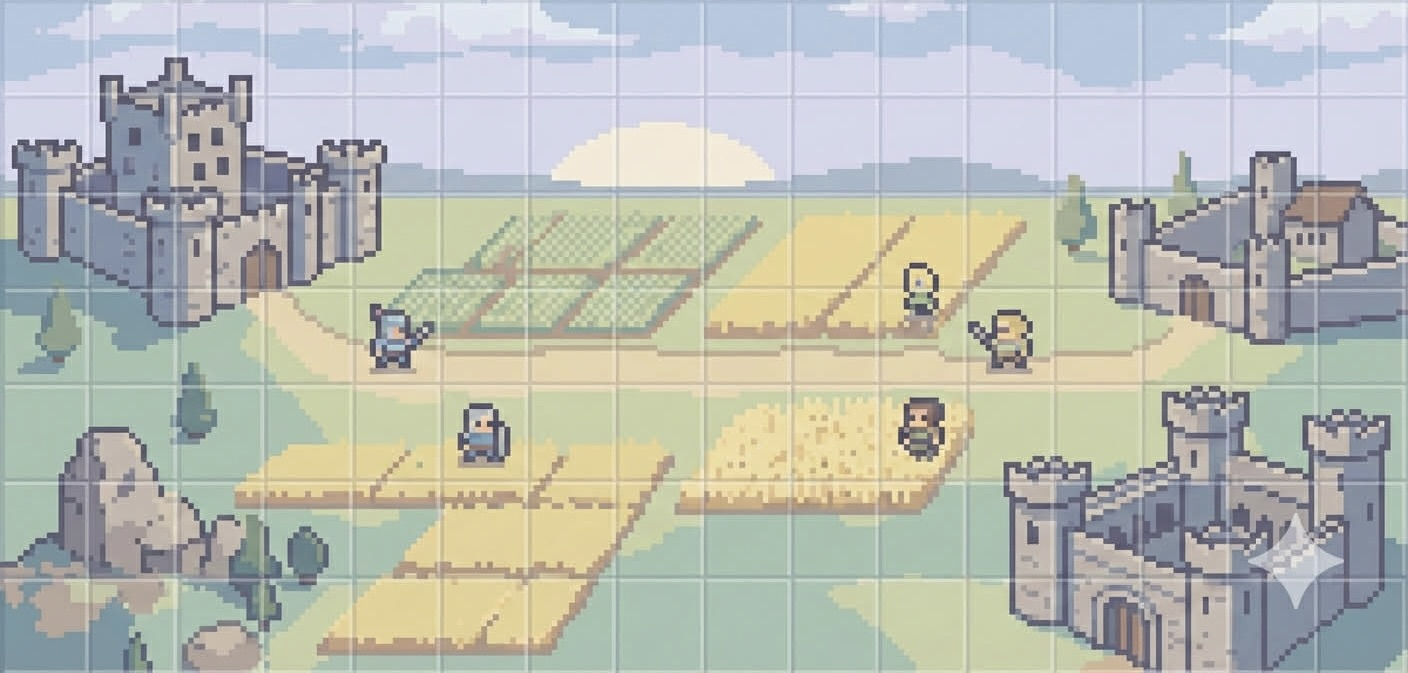
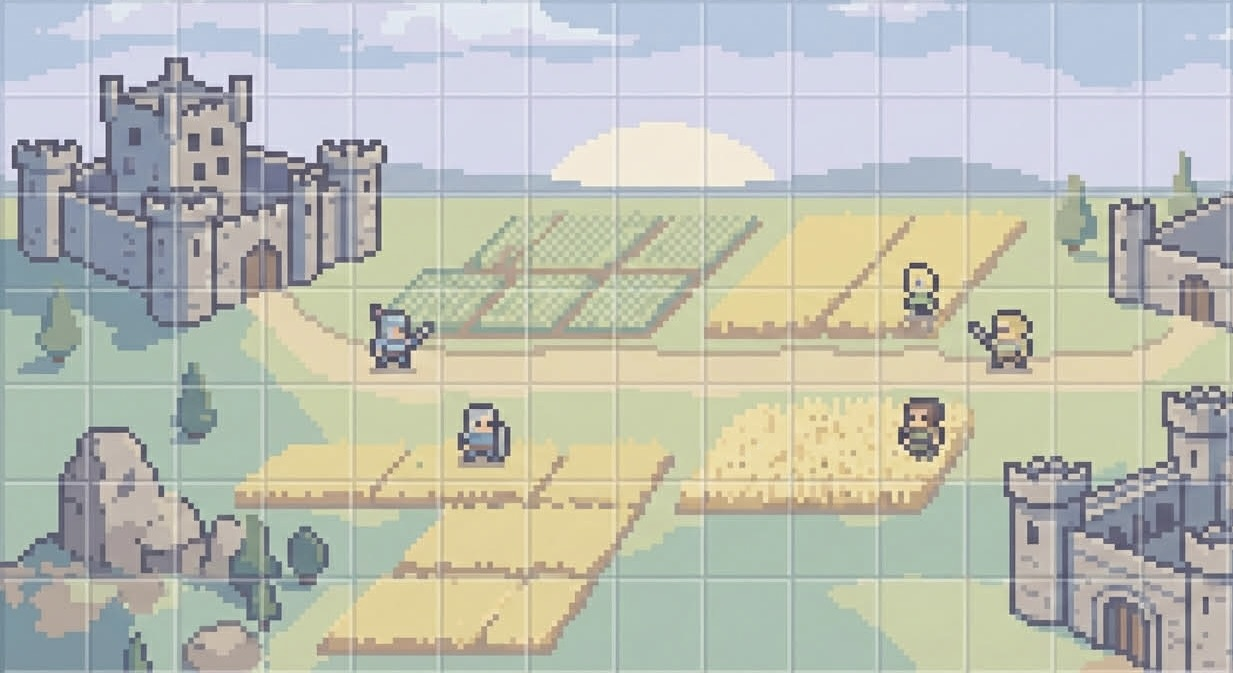
homepage without button done

diff --git a/kombat-frontend/app/page.tsx b/kombat-frontend/app/page.tsx
@@ -2,16 +2,30 @@ import Image from "next/image";
 
 export default function Homepage() {
   return (
-    <div className="relative h-screen w-screen overflow-hidden">
-
-      <Image
-        src="/homepage_bg.jpeg"
-        alt="homepage_bg"
-        fill
-        priority
-        className="object-cover"
-      />
-
-    </div>
+    <main className="relative min-h-screen w-full flex items-center justify-center">
+      <div className="absolute inset-0 -z-10">
+    <Image
+      src="/homepage_bg.jpeg"
+      alt="homepage_bg"
+      fill
+      priority
+      className="object-cover"
+    />
+     </div>
+    <h1 className="
+    relative 
+    font-jersey25 
+    text-[#000] 
+    [text-shadow:_7px_7px_0_#fff,_-7px_-7px_0_#fff,_7px_-7px_0_#fff,_-7px_7px_0_#fff]
+    text-[256px] 
+    font-[400] 
+    text-center 
+    leading-[152%] 
+    tracking-[10.24px] 
+    drop-shadow-[0_4px_4px_rgba(0,0,0,0.25)]
+  ">
+    KOMBAT
+  </h1>
+    </main>
   );
 }
